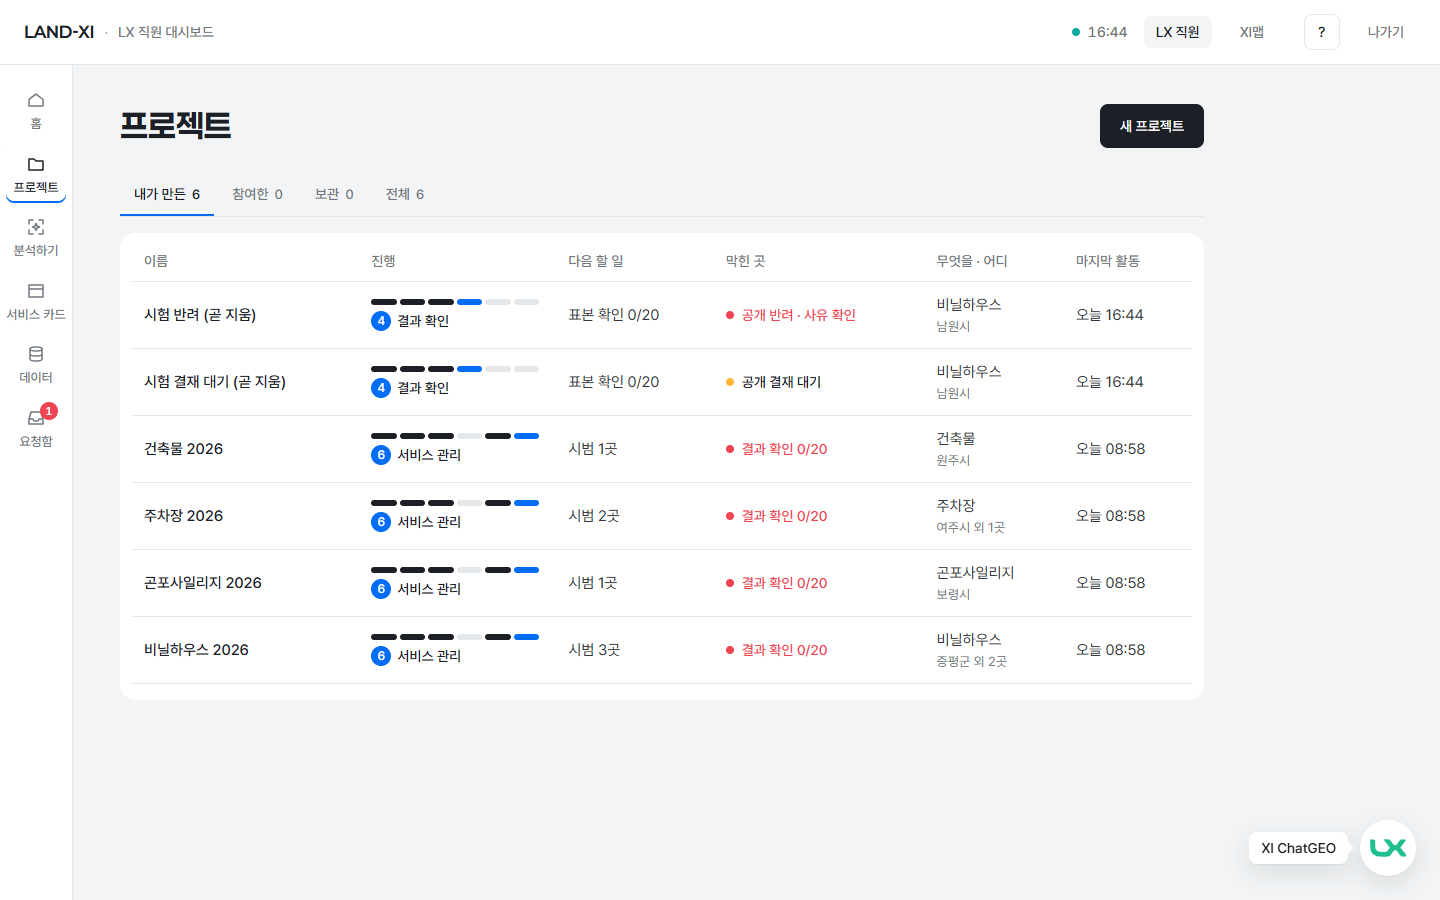
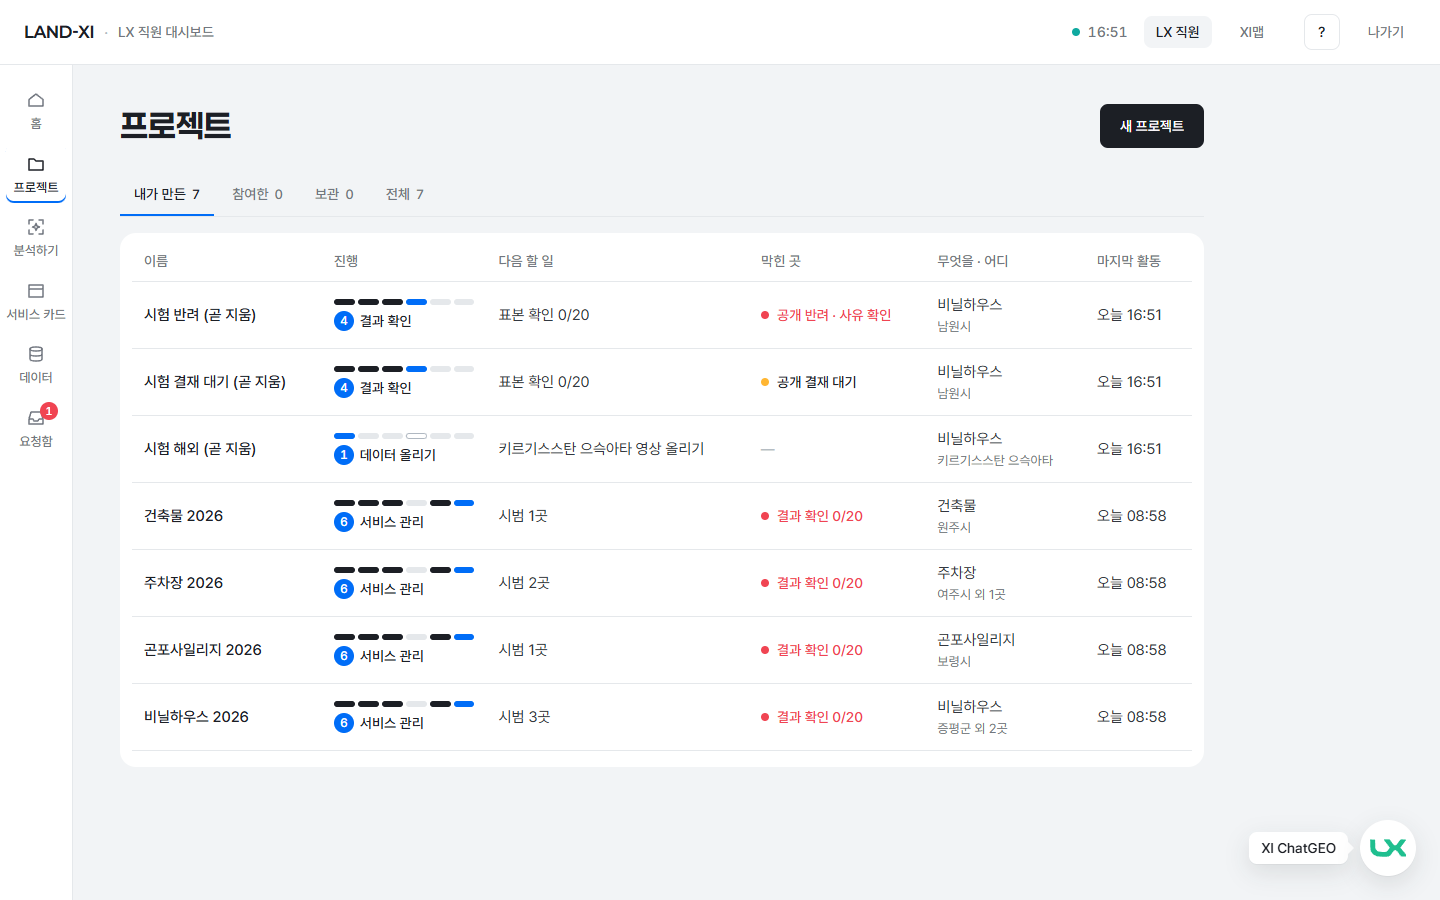
구현 4차 · 대시보드 '내 프로젝트'도 목록과 같은 막대 · 막힌 곳 부품으로
- 막대·막힌 곳을 lx-project/context.js · context.css 한 부품으로 모아 목록과 대시보드가 함께 씀(건너뛴 칸은 두 화면 모두 속 빈 테두리)
- 대시보드: 프로젝트마다 한 장을 따로 불러 칠하던 막대를 서버 목록 값(steps · blocked)으로 — 막힌 곳 한 줄을 다음 할 일 옆에. 다른 칸은 그대로
- 시험 · 전/후 캡처(1440 · 390) · 증거 문서 갱신

Claude-Session: https://claude.ai/code/session_012dngviZxpCDduyLESvgdha

diff --git a/landxi/v3/lx-project/context.js b/landxi/v3/lx-project/context.js
@@ -4,7 +4,7 @@
      · 왼쪽 메뉴 = '프로젝트'에 불 · 마스트 아래 한 줄 = 프로젝트 이름 + 그 프로젝트의 단계 6(데이터 올리기 → 학습데이터 구축 → 학습 → 결과 확인 → 발행 요청 → 서비스 관리) + 다음 할 일
      · 단계 표시(완료 · 지금 · 대기) = 서버 판정(GET /projects/{id}) — 화면이 지어내지 않는다. 이 화면이 보이는 단계는 밑줄
      · 단계 → 화면 주소 = stageHref() 한 곳(대시보드 '내 프로젝트' · 프로젝트 화면 · 단계 막대가 모두 이것을 쓴다)
-   · 6칸 진행 막대(stepSegHtml) = 프로젝트 목록의 '진행' 칸 — 서버가 목록에 주는 칸 상태(steps)를 그대로 칠한다(대시보드 '내 프로젝트' 막대와 같은 모양)
+   · 6칸 진행 막대(stepSegHtml · stepSeg) · 막힌 곳 한 줄(stuckHtml) = 프로젝트 목록과 대시보드 '내 프로젝트'가 함께 쓰는 한 부품 — 서버가 목록에 주는 칸 상태(steps) · 막힌 곳(blocked)을 그대로 보인다
    프로젝트 밖(맥락 없음)에서는 그 화면의 메뉴 칸(staffMenu)만 쓴다. */
 import { h, esc, api } from '../kit/util.js';
 import { staffMenu } from '../kit/lx-menu.js';
@@ -95,7 +95,7 @@ function drawBar(el, pr, key) {
 }
 
 /** 6칸 진행 막대(HTML) — steps = 서버가 준 칸 상태 6(done · now · wait · skip). 끝난 칸 · 지금 칸 · 남은 칸 · 건너뛴 칸을 구분한다.
-    대시보드 '내 프로젝트'의 막대(.ld-seg)와 같은 모양(.lxp-seg · context.css). 칸마다 이름표(title) · 막대 전체 읽기 글(aria-label). */
+    대시보드 '내 프로젝트' 줄도 같은 부품을 쓴다(.lxp-seg · context.css). 칸마다 이름표(title) · 막대 전체 읽기 글(aria-label). */
 const SEG_WORD = { done: '완료', now: '지금 단계', wait: '대기', skip: '해당 없음' };
 export function stepSegHtml(steps = []) {
   ensureCss();
@@ -104,6 +104,25 @@ export function stepSegHtml(steps = []) {
   const n = (k) => st.filter((x) => x === k).length;
   const say = [`${n('done')}칸 끝남`, nowI >= 0 ? `지금 ${nowI + 1} ${STAGES[nowI].label}` : '', n('wait') ? `${n('wait')}칸 남음` : '', n('skip') ? `${n('skip')}칸 해당 없음` : ''].filter(Boolean).join(' · ');
   return `<span class="lxp-seg" role="img" aria-label="${esc(say)}">${st.map((x, i) => `<i data-st="${x}" title="${esc(`${i + 1} ${STAGES[i].label} · ${SEG_WORD[x]}`)}"></i>`).join('')}</span>`;
+}
+
+/** 6칸 진행 막대(요소) — 위 stepSegHtml 과 같은 것. 대시보드 '내 프로젝트' 줄이 쓴다 */
+export function stepSeg(steps = []) {
+  const t = document.createElement('template');
+  t.innerHTML = stepSegHtml(steps);
+  return t.content.firstElementChild;
+}
+
+/** 줄이 꺾일 때 가운뎃점이 줄 맨 앞에 서지 않게 — ' · ' 의 앞 공백을 줄바꿈 없는 공백으로(점은 앞 낱말과 함께 윗줄 끝에) */
+export const nb = (t) => String(t ?? '').replace(/ · /g, '\u00A0· ');
+
+/** 막힌 곳 한 줄(HTML) — 서버가 준 막힌 곳(blocked: 반려 → 앞 단계 남음 → 결재 대기 순)의 첫 줄 + 더 있으면 '외 n건' · 없거나 보관이면 —.
+    프로젝트 목록 '막힌 곳' 칸과 대시보드 '내 프로젝트' 줄이 같은 규칙으로 쓴다(.lxp-stuck · context.css) */
+export function stuckHtml(p, archived = false) {
+  ensureCss();
+  const b = archived ? [] : p?.blocked || [];
+  if (!b.length) return '<span class="lxp-stuck is-none">—</span>';
+  return `<span class="lxp-stuck" data-kind="${esc(b[0].kind)}" title="${esc(b.map((x) => x.text).join(' · '))}"><span>${esc(nb(b[0].text))}${b.length > 1 ? ` <small>외 ${b.length - 1}건</small>` : ''}</span></span>`;
 }
 
 let cssOn = false;

diff --git a/landxi/v3/lx-console/app.js b/landxi/v3/lx-console/app.js
@@ -6,12 +6,13 @@
 import * as K from '../kit/index.js';
 import { h, esc, api, API } from '../kit/util.js';
 import { staffMenu, requestCounts, STAFF_HREF } from '../kit/lx-menu.js';
-import { stageHref, loadProject, STAGES, HOME as PROJECTS } from '../lx-project/context.js';
+import { stageHref, stepSeg, stuckHtml, nb, ensureCss, HOME as PROJECTS } from '../lx-project/context.js';
 import { openNewProject } from '../lx-project/new.js';
 import { summary } from './summary.js';
 import { say } from './words.js';
 import { dueSets } from '../lx-deploy/retrain.js';
 
+ensureCss();                                         // 6칸 막대 · 막힌 곳 부품(프로젝트 목록과 같은 것)의 스타일
 const who = await K.gate('lx-console');
 const S = K.shell({ who, home: 'lx-console', rail: staffMenu('home') });
 K.devDrawer({ who });
@@ -68,7 +69,7 @@ drawActs();
 window.__lxConsole = { ready: true };                 // e2e 관측(읽기 전용)
 document.documentElement.dataset.consoleReady = '1';
 
-/* ── ① 내 프로젝트 — 줄마다 이름 · 지역 · 6칸 진행 막대(끝난 칸 잉크 · 지금 칸 파랑) · 지금 단계 · 다음 할 일 ── */
+/* ── ① 내 프로젝트 — 줄마다 이름 · 지역 · 6칸 진행 막대(프로젝트 목록과 같은 부품 · 서버 판정 steps) · 지금 단계 · 다음 할 일 · 막힌 곳(같은 규칙) ── */
 async function drawMine() {
   const box = mine.querySelector('.ld-prs');
   const MAX = 3;
@@ -85,19 +86,16 @@ async function drawMine() {
   }
   const rows = items.slice(0, MAX).map((p) => {
     const where = p.regions?.length ? p.regions[0].name + (p.regions.length > 1 ? ` 외 ${p.regions.length - 1}곳` : '') : '';
-    const seg = h('span.ld-seg', { 'aria-hidden': 'true' }, ...STAGES.map(() => h('i')));
     const n = (p.stage?.index ?? 0) + 1;
+    const stuck = p.blocked?.[0]?.text;
     const a = h('a.lc-pr', { href: stageHref(p, p.next?.stage, p.next?.target), dataset: { stage: p.stage?.key || '' },
-      'aria-label': `${p.name} · ${where} · 지금 단계 ${n} ${p.stage?.label || ''} · 다음 할 일 ${p.next?.text || ''}` },
+      'aria-label': `${p.name} · ${where} · 지금 단계 ${n} ${p.stage?.label || ''} · 다음 할 일 ${p.next?.text || ''}${stuck ? ` · 막힌 곳 ${stuck}` : ''}` },
       h('span.ld-pr-nm', {}, h('b.lc-pr-n', { text: p.name }), where ? h('small', { text: where }) : null),
-      seg,
+      stepSeg(p.steps),
       h('span.lc-pr-s.ld-pr-st', {}, h('i.num', { text: String(n) }), h('span', { text: p.stage?.label || '' })),
-      p.next?.text ? h('span.lc-pr-x.ld-pr-nx', { html: esc(p.next.text).replace(/(\d[\d,]*\s?(?:필지|건|곳|개)?)/g, '<b>$1</b>') }) : null);
-    /* 막대 — 프로젝트 한 장(서버 판정: 단계마다 완료 · 지금 · 대기)을 받아 칠한다 */
-    loadProject(p.id).then((pr) => {
-      const st = pr?.stages || [];
-      [...seg.children].forEach((i, k) => { i.dataset.st = k === pr?.stage?.index ? 'now' : st[k]?.done ? 'done' : 'wait'; });
-    }).catch(() => {});
+      h('span.ld-pr-ln', {},
+        p.next?.text ? h('span.lc-pr-x.ld-pr-nx', { html: esc(nb(p.next.text)).replace(/(\d[\d,]*\s?(?:필지|건|곳|개)?)/g, '<b>$1</b>') }) : null,
+        p.blocked?.length ? h('span.ld-pr-sk', { html: stuckHtml(p) }) : null));
     return a;
   });
   box.replaceChildren(...rows);

diff --git a/landxi/v3/lx-project/app.js b/landxi/v3/lx-project/app.js
@@ -6,7 +6,7 @@
    숫자·판정은 전부 서버(GET /projects · /projects/{id}). 부품 = 키트(셸 · 관문 · 표 · 스텝퍼 · 빈 화면 · 토스트)만 조합. */
 import * as K from '../kit/index.js';
 import { h, api } from '../kit/util.js';
-import { PID, projectRail, attachProject, refreshRail, stageHref, projectHref, loadProject, stepSegHtml } from './context.js';
+import { PID, projectRail, attachProject, refreshRail, stageHref, projectHref, loadProject, stepSegHtml, stuckHtml, nb } from './context.js';
 import { staffMenu } from '../kit/lx-menu.js';
 import { openNewProject } from './new.js';
 
@@ -28,8 +28,6 @@ function when(s) {
   return d.getFullYear() === now.getFullYear() ? `${two(d.getMonth() + 1)}.${two(d.getDate())}` : `${d.getFullYear()}.${two(d.getMonth() + 1)}.${two(d.getDate())}`;
 }
 const regionWord = (rs = []) => (rs.length ? rs[0].name + (rs.length > 1 ? ` 외 ${rs.length - 1}곳` : '') : '—');
-/** 줄이 꺾일 때 가운뎃점이 줄 맨 앞에 서지 않게 — ' · ' 의 앞 공백을 붙여 쓴다(점은 앞 낱말과 함께 윗줄 끝에) */
-const nb = (t) => String(t ?? '').replace(/ · /g, ' · ');
 const stageText = (p) => (p.stage ? `${p.stage.index + 1} ${p.stage.label}` : '—');
 
 if (PID) await one(); else await list();
@@ -77,7 +75,7 @@ async function list() {
       { key: 'name', label: '이름', fmt: (v) => `<b class="lxp-n">${esc(v)}</b>` },
       { key: 'steps', label: '진행', fmt: (v, r) => progressCell(r, k === 'archived') },
       { key: 'nextText', label: '다음 할 일' },
-      { key: 'blocked', label: '막힌 곳', fmt: (v, r) => stuckCell(r, k === 'archived') },
+      { key: 'blocked', label: '막힌 곳', fmt: (v, r) => stuckHtml(r, k === 'archived') },
       { key: 'task', label: '무엇을 · 어디', fmt: (v, r) => `<span class="lxp-what">${esc(v || '—')}<small title="${esc((r.regions || []).map((g) => g.full || g.name).join(' · '))}">${esc(r.where)}</small></span>` },
       ...(k === 'led' ? [] : [{ key: 'leadName', label: '프로젝트장' }]),
       { key: 'lastText', label: '마지막 활동' },
@@ -98,12 +96,6 @@ function progressCell(p, archived) {
   if (archived) return '<span class="lxp-pg-st is-arch">보관</span>';
   const n = (p.stage?.index ?? 0) + 1;
   return `<div class="lxp-pg">${stepSegHtml(p.steps)}<span class="lxp-pg-st"><i class="num">${n}</i>${esc(p.stage?.label || '')}</span></div>`;
-}
-/** 막힌 곳 — 서버가 준 막힌 곳(blocked: 반려 → 앞 단계 남음 → 결재 대기 순) 첫 줄 + 더 있으면 '외 n건'. 없으면 — */
-function stuckCell(p, archived) {
-  const b = archived ? [] : p.blocked || [];
-  if (!b.length) return '<span class="lxp-stuck is-none">—</span>';
-  return `<span class="lxp-stuck" data-kind="${esc(b[0].kind)}" title="${esc(b.map((x) => x.text).join(' · '))}"><span>${esc(nb(b[0].text))}${b.length > 1 ? ` <small>외 ${b.length - 1}건</small>` : ''}</span></span>`;
 }
 function esc(s) { return String(s ?? '').replace(/[&<>"']/g, (c) => ({ '&': '&amp;', '<': '&lt;', '>': '&gt;', '"': '&quot;', "'": '&#39;' }[c])); }
 

diff --git a/landxi/v3/lx-project/project.css b/landxi/v3/lx-project/project.css
@@ -18,18 +18,11 @@
 .lxp-list .k-table td{vertical-align:middle;word-break:keep-all;text-wrap:balance}
 .lxp-list .k-table td:last-child{white-space:nowrap}
 .lxp-n{font-weight:500;color:var(--ink)}
-/* 목록 칸 — 진행(6칸 막대 + 지금 단계) · 막힌 곳(없으면 —) · 무엇을 · 어디 (제안 2 S-14 ⓑ · 막대 부품은 context.css) */
+/* 목록 칸 — 진행(6칸 막대 + 지금 단계) · 막힌 곳 · 무엇을 · 어디 (제안 2 S-14 ⓑ · 막대 · 막힌 곳 부품은 context.css — 대시보드와 같은 것) */
 .lxp-pg{display:flex;flex-direction:column;gap:6px;min-width:120px;max-width:168px}
 .lxp-pg-st{display:inline-flex;align-items:center;gap:6px;font:500 var(--fs-label)/20px var(--font-body);color:var(--ink);white-space:nowrap}
 .lxp-pg-st i{display:inline-flex;align-items:center;justify-content:center;flex:none;width:20px;height:20px;border-radius:50%;background:var(--accent);color:#fff;font:500 12px/1 var(--font-num);font-style:normal}
 .lxp-pg-st.is-arch{color:var(--sub)}
-.lxp-stuck{display:flex;align-items:flex-start;gap:8px;min-width:128px;font:500 var(--fs-label)/20px var(--font-body);color:var(--warn);text-wrap:balance}
-.lxp-stuck::before{content:"";flex:none;width:8px;height:8px;margin-top:6px;border-radius:50%;background:currentColor}
-.lxp-stuck[data-kind="wait"]{color:var(--ink)}
-.lxp-stuck[data-kind="wait"]::before{background:var(--lock)}
-.lxp-stuck small{font:400 13px/20px var(--font-body);color:var(--sub);white-space:nowrap}
-.lxp-stuck.is-none{color:var(--mute);font-weight:400}
-.lxp-stuck.is-none::before{content:none}
 .lxp-what{display:flex;flex-direction:column;gap:2px;min-width:0}
 .lxp-what small{font:400 13px/18px var(--font-body);color:var(--sub)}
 

diff --git a/landxi/v3/lx-project/context.css b/landxi/v3/lx-project/context.css
@@ -33,12 +33,19 @@ a.lxp-bar-name:hover b{text-decoration:underline;text-underline-offset:3px}
   .lxp-st.is-here{box-shadow:inset 0 -2px 0 var(--accent)}
 }
 
-/* ── 6칸 진행 막대(프로젝트 목록 '진행' 칸 · 대시보드 '내 프로젝트' 막대 .ld-seg 와 같은 모양) — 끝난 칸 잉크 · 지금 칸 파랑 · 남은 칸 회색 · 건너뛴 칸 속 빈 테두리 ── */
+/* ── 6칸 진행 막대 · 막힌 곳(프로젝트 목록과 대시보드 '내 프로젝트'가 함께 쓰는 한 부품) — 끝난 칸 잉크 · 지금 칸 파랑 · 남은 칸 회색 · 건너뛴 칸 속 빈 테두리 ── */
 .lxp-seg{display:grid;grid-template-columns:repeat(6,1fr);gap:3px;height:6px;min-width:0}
 .lxp-seg i{display:block;border-radius:3px;background:var(--rule)}
 .lxp-seg i[data-st="done"]{background:var(--ink)}
 .lxp-seg i[data-st="now"]{background:var(--accent)}
 .lxp-seg i[data-st="skip"]{background:none;box-shadow:inset 0 0 0 1px var(--mute)}
+.lxp-stuck{display:flex;align-items:flex-start;gap:8px;min-width:128px;font:500 var(--fs-label)/20px var(--font-body);color:var(--warn);text-wrap:balance}
+.lxp-stuck::before{content:"";flex:none;width:8px;height:8px;margin-top:6px;border-radius:50%;background:currentColor}
+.lxp-stuck[data-kind="wait"]{color:var(--ink)}
+.lxp-stuck[data-kind="wait"]::before{background:var(--lock)}
+.lxp-stuck small{font:400 13px/20px var(--font-body);color:var(--sub);white-space:nowrap}
+.lxp-stuck.is-none{color:var(--mute);font-weight:400}
+.lxp-stuck.is-none::before{content:none}
 
 /* ── 새 프로젝트(시트 한 장 · 시안 06-project-new) ── */
 .lxp-dim{position:fixed;inset:0;z-index:80;opacity:0;transition:opacity var(--d-380) var(--e-ui)}

diff --git a/landxi/v3/lx-console/console.css b/landxi/v3/lx-console/console.css
@@ -20,13 +20,11 @@
 .ld-pr-nm{display:flex;align-items:baseline;gap:8px;min-width:0}
 .ld-pr-nm b{font:500 16px/24px var(--font-body);color:var(--ink);white-space:nowrap;overflow:hidden;text-overflow:ellipsis}
 .ld-pr-nm small{flex:none;font:400 var(--fs-label)/20px var(--font-body);color:var(--sub);white-space:nowrap}
-.ld-seg{display:grid;grid-template-columns:repeat(6,1fr);gap:3px;height:6px}
-.ld-seg i{display:block;border-radius:3px;background:var(--rule)}
-.ld-seg i[data-st="done"]{background:var(--ink)}
-.ld-seg i[data-st="now"]{background:var(--accent)}
 .ld-pr-st{display:inline-flex;align-items:center;justify-content:flex-end;gap:6px;font:500 var(--fs-label)/20px var(--font-body);color:var(--ink);white-space:nowrap}
 .ld-pr-st i{display:inline-flex;align-items:center;justify-content:center;width:20px;height:20px;border-radius:50%;background:var(--accent);color:#fff;font:500 12px/1 var(--font-num);font-style:normal}
-.ld-pr-nx{grid-column:1/-1;font:400 var(--fs-label)/20px var(--font-body);color:var(--sub-2)}
+.ld-pr-ln{grid-column:1/-1;display:flex;flex-wrap:wrap;align-items:baseline;gap:2px 20px;min-width:0}
+.ld-pr-nx{font:400 var(--fs-label)/20px var(--font-body);color:var(--sub-2)}
+.ld-pr-sk .lxp-stuck{min-width:0}
 .ld-pr-nx::before{content:"→ ";color:var(--sub)}
 .ld-pr-nx b{font-weight:500;color:var(--ink)}
 .ld-foot{display:flex;border-top:1px solid var(--rule);padding-top:14px}

diff --git a/docs/superpowers/final/process/impl-4/project-list/README.md b/docs/superpowers/final/process/impl-4/project-list/README.md
@@ -1,10 +1,16 @@
-# 구현 4차 · 프로젝트 목록 — 진행 막대와 막힌 곳 (구현 확인 대기)
+# 구현 4차 · 프로젝트 목록과 대시보드 — 진행 막대와 막힌 곳 (구현 확인 대기)
 
-> 2026-10-01 · 어느 플랫폼: **Land-XI 화면**(LX 직원 · 프로젝트 목록)
+> 2026-10-01 · 어느 플랫폼: **Land-XI 화면**(LX 직원 · 프로젝트 목록 · 대시보드 '내 프로젝트')
 > 근거(사용자가 확인한 것만): 제안 2 **S-14 — ⓑ 진행 막대 + 막힌 곳만**("걸러 보기는 나중에")
 
 ## 한 줄
 **프로젝트 목록의 '지금 단계' 글자 칸이 6칸 진행 막대로 바뀌었고, '막힌 곳' 한 칸이 생겼습니다. 네 프로젝트 모두 '서비스 관리'로 보였지만 실제로는 결과 확인이 0/20이라는 것이 이제 한눈에 보입니다.**
+
+## 대시보드 '내 프로젝트'도 같은 부품으로(추가)
+같은 프로젝트가 두 화면에서 다르게 보이지 않도록, 대시보드 '내 프로젝트' 줄의 막대를 **프로젝트 목록과 같은 부품**으로 바꿨습니다.
+- 막대: 칸 상태를 서버가 목록에 주는 값 그대로 칠합니다(건너뛴 칸도 대시보드에서 속 빈 테두리). 전에는 프로젝트마다 한 장을 따로 불러 칠했고 건너뛴 칸이 없었습니다.
+- 막힌 곳: 각 줄의 '→ 다음 할 일' 옆에 같은 규칙 · 같은 모양으로 한 줄(없으면 안 보임). 휴대폰에서도 같습니다.
+- 대시보드의 다른 칸(요청함 · 우리 서비스 · 바로 분석하기 · 최근 활동)은 그대로입니다.
 
 ## 무엇이 바뀌었나
 | 부분 | 모습 |
@@ -25,26 +31,28 @@
 | 비닐하우스 2026 | 같음 | 6 서비스 관리 | 결과 확인 0/20 |
 
 ## 결재 대기 · 반려는 어떻게 나오나(실제 서버 값으로 잠깐 만들어 찍고 지움)
-시험 프로젝트 둘(이름 끝에 '곧 지움')을 만들어 하나는 공개 결재를 올려 둔 채, 하나는 관리자가 반려한 채로 찍었습니다. 찍은 뒤 프로젝트 · 서비스 카드 · 결재를 모두 지웠습니다(남은 것 0).
+시험 프로젝트 셋(이름 끝에 '곧 지움')을 만들어 하나는 공개 결재를 올려 둔 채, 하나는 관리자가 반려한 채로, 하나는 해외 지역만 넣어(결과 확인 칸을 건너뜀) 찍었습니다. 찍은 뒤 프로젝트 · 서비스 카드 · 결재를 모두 지웠습니다(남은 것 0).
 - 결재 대기 → 노란 점 + **공개 결재 대기**
 - 반려 → 빨간 글자 **공개 반려 · 사유 확인**
 
 ## 전 / 후 캡처(로그인 폼 · 바깥 주소 app.land-xi.dev)
 | 장면 | 전 | 후 |
 |---|---|---|
+| 대시보드 '내 프로젝트' PC(1440) | ![](img/before-dashboard-1440.png) | ![](img/after-dashboard-1440.png) |
+| 대시보드 '내 프로젝트' 휴대폰(390) | ![](img/before-dashboard-390.png) | ![](img/after-dashboard-390.png) |
 | 프로젝트 목록 PC(1440) | ![](img/before-list-1440.png) | ![](img/after-list-1440.png) |
 | 프로젝트 목록 휴대폰(390) | ![](img/before-list-390.png) | ![](img/after-list-390.png) |
-| 결재 대기 · 반려가 있을 때 PC · 휴대폰 | — | ![](img/after-states-1440.png) ![](img/after-states-390.png) |
+| 결재 대기 · 반려 · 건너뛴 칸이 있을 때 — 목록 PC · 휴대폰 | — | ![](img/after-states-1440.png) ![](img/after-states-390.png) |
+| 같은 장면 — 대시보드 PC · 휴대폰(같은 막대 · 같은 막힌 곳) | — | ![](img/after-dashboard-states-1440.png) ![](img/after-dashboard-states-390.png) |
 
 ## 서버에 더한 것(최소)
 프로젝트 목록 응답에는 단계별 상태가 없어서, 막대를 그리려면 프로젝트마다 한 장을 다시 불러야 했습니다(대시보드는 3개라 괜찮지만 목록은 최대 200개). 그래서 **이미 하던 단계 판정의 결과를 목록 줄에도 실어 줍니다** — 칸 상태 6개와 막힌 곳. 새로 세는 숫자는 없습니다(결과 확인 n/20 은 프로젝트 한 장과 같은 값). 프로젝트 한 장에도 같은 두 값이 붙습니다.
 
 ## 시험
 - 서버: 프로젝트 시험에 셋 더함 — 새 프로젝트 칸 6 · 결재 대기 → 반려 · 공개 뒤에도 '결과 확인 0/20' · 해외 지역만 있으면 건너뛴 칸. 11건 통과.
-- 화면: 목록 시험 셋 — 열 · 칸 6 · 막힌 곳이 서버 판정과 같음 · 걸러 보기 없음 / 대시보드 막대와 같은 값 / 휴대폰 390 가로 넘침 0 · 한 장으로 접힘. 기존 프로젝트 · 메뉴 시험까지 13건 통과.
+- 화면: 목록 시험 셋 — 열 · 칸 6 · 막힌 곳이 서버 판정과 같음 · 걸러 보기 없음 / 대시보드 줄이 목록과 같은 부품 · 같은 값(막대 · 건너뛴 칸 · 막힌 곳) / 휴대폰 390 가로 넘침 0 · 한 장으로 접힘. 기존 프로젝트 · 메뉴 시험까지 13건 통과.
 - 폭 10가지(1440 ~ 360) 가로 넘침 0, 금지어 0.
 
 ## 이런 것도 필요하지 않을까요? (제안)
 1. **막힌 곳을 누르면 그 단계 화면으로 바로** — '결과 확인 0/20'을 보고 한 번에 결과 확인 화면으로 가면 좋겠습니다(LX 직원이 막힌 것을 바로 풀기 위해).
-2. **대시보드 '내 프로젝트' 막대에도 건너뛴 칸 · 막힌 곳 한 줄** — 지금 대시보드는 '서비스 관리'만 보여, 같은 프로젝트가 목록과 다르게 읽힙니다(같은 이름은 같은 모습이어야 하므로).
-3. **막힌 곳이 있는 프로젝트를 위로** — 목록이 많아지면 반려 · 결과 확인 남은 것부터 보이게(걸러 보기를 만들 때 함께 정하면 좋겠습니다).
+2. **막힌 곳이 있는 프로젝트를 위로** — 목록이 많아지면 반려 · 결과 확인 남은 것부터 보이게(걸러 보기를 만들 때 함께 정하면 좋겠습니다).
